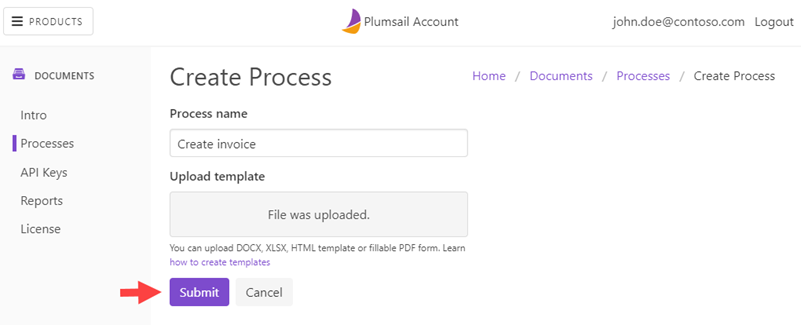
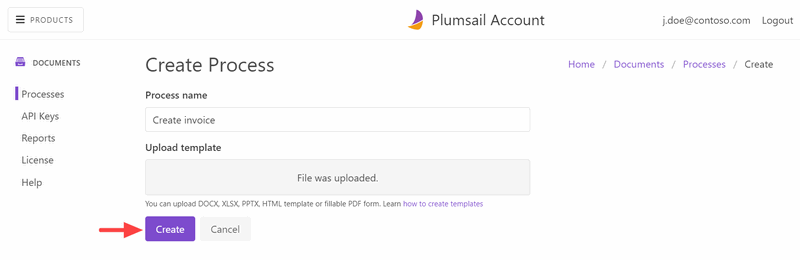
online editor updates

diff --git a/source/user-guide/processes/create-process.rst b/source/user-guide/processes/create-process.rst
@@ -1,12 +1,14 @@
 Create a new process
 ====================
 
-Once you `created a document template <create-template.html>`_ you can create a new process. Navigate to `Processes <https://account.plumsail.com/documents/processes>`_ section of your account and click "Add process":
+Once you `created a document template <create-template.html>`_ you can create a new process. Navigate to `Processes <https://account.plumsail.com/documents/processes>`_ section of your account and click *Add process*:
 
 .. image:: ../../_static/img/user-guide/processes/create-process-view.png
     :alt: Create process button
 
-Fill in the process name and upload your template. In this article, we will use `the DOCX template for invoice <../../_static/files/user-guide/processes/invoice-template.docx>`_. Then click the "Submit" button:
+Fill in the process name and upload your template. Here we use `the DOCX template for invoice <../../_static/files/user-guide/processes/invoice-template.docx>`_. 
+
+Then click the *Create* button:
 
 .. image:: ../../_static/img/user-guide/processes/create-process-form.png
     :alt: Create process form
@@ -14,17 +16,51 @@ Fill in the process name and upload your template. In this article, we will use 
 Configure template
 ------------------
 
-When the process is created you will see the first step of your process. It is called "Configure template":
+Once you created the process, its first step *Configure template* will appear on the screen. It has two substeps - *Editor* and *Settings*. 
+
+We will take a closer look at them.
+
+Editor substep
+~~~~~~~~~~~~~~
+On this substep first, you see the preview of the document template.
 
 .. image:: ../../_static/img/user-guide/processes/configure-template-step.png
     :alt: Configure template step
 
+As you can see, it’s possible to upload a new file as a template from here. 
+And download the template if you need it, say, for offline editing or storing. 
 
-The step has a few settings:
+The editor enables you to make changes to the document template online – right in your Plumsail account. 
+
+For that, click on the *Edit online*, and you will proceed to the editing mode.
+Now it’s possible to make any necessary changes to the document template. 
+
+.. image:: ../../_static/img/user-guide/processes/online-editor-mode.png
+    :alt: Online editor mode on
+
+The online editor provides a full-screen mode for more convenience in working with the template. 
+Enter and exit it by simply clicking on the button. 
+
+.. image:: ../../_static/img/user-guide/processes/full-screen-buttons.png
+    :alt: Full screen and Exit full screen buttons
+
+Once you’ve done with editing; you can exit the online editor by clicking on *Exit editor*. 
+You will return to the preview of the template. 
+
+.. note:: If you exit the online editor, you confirm the changes. After exiting you won’t be able to undo changes, only to make new ones.
+
+Online editor for Word, Excel, and PowerPoint templates is supported by Google Docs. 
+For editing HTML templates, it uses CodeMirror with HTML Mixed mode. For more information, you can visit the `Online editor reference page <./online-editor.html>`_. 
+
+Settings substep
+~~~~~~~~~~~~~~~~
+
+.. image:: ../../_static/img/user-guide/processes/settings-of-template.png
+    :alt: Settings of template substep
+
+Here you customize the following settings:
 
 - :ref:`Mode <process-mode>`
-- :ref:`process-name`
-- :ref:`template`
 - :ref:`output-filename`
 - :ref:`output-type`
 - :ref:`add-watermark`
@@ -35,21 +71,7 @@ The step has a few settings:
 Mode
 ~~~~
 
-It is "Testing" by default. It means you won't be charged for executions of this process but result documents will have a Plumsail watermark. Change it to "Active" to remove the watermark.
-
-.. _process-name:
-
-Process name
-~~~~~~~~~~~~
-
-It is the name of your process.
-
-.. _template:
-
-Template file
-~~~~~~~~~~~~~
-
-It is a file of your template. If you want to change the template, upload it here. Read `this article <create-template.html>`_ for more information about creating a template. You can download the current template file by clicking "Download the file".
+It is *Testing* by default. It means you won't be charged for executions of this process but result documents will have a Plumsail watermark. Change it to "Active" to remove the watermark.
 
 .. _output-filename:
 
@@ -72,7 +94,8 @@ Type of the output file. By default, it is the same as your template but you can
 Add watermark
 ~~~~~~~~~~~~~
 
-You can see this option if you selected PDF as an output type. Click on the "Add watermark" and upload a PNG image for your watermark. You will see the watermark configuration dialog:
+You can see this option if you selected PDF as an output type. Click on the *Add watermark* and upload a PNG image for your watermark. 
+You will see the watermark configuration dialog:
 
 .. image:: ../../_static/img/user-guide/processes/add-watermark-dialog.png
     :alt: Watermark dialog
@@ -84,7 +107,8 @@ You can specify position and opacity of your watermark.
 Protect PDF
 ~~~~~~~~~~~
 
-You can see this option if you selected PDF as an output type. It allows you to protect your PDF by setting a password, disabling printing, etc. Just click on the "Protect PDF" link and specify settings you need:
+You can see this option if you selected PDF as an output type. 
+It allows you to protect your PDF by setting a password, disabling printing, etc. Just click on the *Protect PDF* link and specify settings you need:
 
 .. image:: ../../_static/img/user-guide/processes/protect-pdf-dialog.png
     :alt: Protect PDF dialog

diff --git a/source/user-guide/processes/online-editor.rst b/source/user-guide/processes/online-editor.rst
@@ -1,0 +1,55 @@
+Online editor
+=============
+
+The `Configure template step <./create-process.html>`_ includes an online editor for templates. 
+It allows you to change document templates online in your Plumsail account and check how these changes affect the result. 
+Let’s review how it works.
+
+To enter the Online editor, click on the *Edit online* button from the Editor substep. Once you’ve entered the Online editor, you’re able to change the document template. 
+
+.. image:: ../../_static/img/user-guide/processes/online-editor-mode.png
+    :alt: Online editor mode on
+
+Switch to a full-screen mode and back by simply clicking on the button.
+
+.. image:: ../../_static/img/user-guide/processes/full-screen-buttons.png
+    :alt: Full screen and Exit full screen buttons
+
+Test the document template to check how made changes will affect the resulting file. 
+
+.. image:: ../../_static/img/user-guide/processes/test-button-template.png
+    :alt: Test template button in Online editor
+
+Proceed to the instruction on `how to test templates with your data <./test-template.html>`_.
+
+Editing of Office document templates
+------------------------------------
+
+Online editor for Word, Excel, and PowerPoint templates is supported by Google Docs. 
+
+Edit Word DOCX templates:
+
+.. image:: ../../_static/img/user-guide/processes/edit-word-template.png
+    :alt: Edit Word DOCX template
+
+Edit Excel XLSX templates:
+
+.. image:: ../../_static/img/user-guide/processes/edit-excel-template.png
+    :alt: Edit Excel XLSX template  
+
+Edit PowerPoint PPTX templates:
+
+.. image:: ../../_static/img/user-guide/processes/edit-powerpoint-template.png
+    :alt: Edit PowerPoint PPTX template  
+
+.. important:: Exit the online editor means you confirm the changes. After exiting you won’t be able to undo changes, just make new ones.
+
+Editing of HTML templates
+-------------------------
+
+Online editor for HTML templates uses CodeMirror with HTML Mixed mode. You can make changes to your HTML template right in the working area. 
+
+.. image:: ../../_static/img/user-guide/processes/edit-html-template.png
+    :alt: Edit HTML html template
+
+.. hint:: Plumsail Documents processes support fillable PDF forms as templates as well. You can't edit the PDF form template inside the process, but you can create it the way you need beforehand. Check out our instruction on `how to create fillable PDFs <../../document-generation/fillable-pdf/index.html>`_.

diff --git a/source/user-guide/processes/test-template.rst b/source/user-guide/processes/test-template.rst
@@ -1,16 +1,25 @@
 Test template with your data
-================================
+=============================
 
-Once you `created a new process <create-process.html>`_ and configured a template you can test it with your data. Just click the "Test template" button in the left bottom corner of the "Configure template" step:
+You can test the document template to see an example of the resulting file from the Editor and the Settings steps. 
 
-.. image:: ../../_static/img/user-guide/processes/test-template-button.png
-    :alt: Test template button
+The first option – testing from the Editor step – will help to see how your changes affect the result.
 
-You will see the dialog where you can put your data in JSON format:
+.. image:: ../../_static/img/user-guide/processes/test-template-from-editor.png
+    :alt: Test template from editor step
+
+The second option – testing from the Settings step – will show you how the finalized document will look after you’ve customized all the settings. 
+
+.. image:: ../../_static/img/user-guide/processes/test-template-from-settings.png
+    :alt: Test template from settings step
+
+**What to do after you clicked on the Test template?**
+
+After that, you will see the dialog where you can put your data in JSON format:
 
 .. image:: ../../_static/img/user-guide/processes/template-test-dialog.png
     :alt: Test template dialog
 
-Just click "Create document" to apply this data to your template and review the resulting document.
+Just click *Create document* to apply this data to your template and review the resulting document.
 
-.. Note:: Once you tested the template you can `configure how to deliver the result document <create-delivery.html>`_ (email, OneDrive, etc). Just click the "Save & Next" button in the "Configure template" step.
+.. Note:: Once you tested the template you can `configure how to deliver the result document <create-delivery.html>`_ (email, OneDrive, etc). Just click the *Save & Next* button in the *Configure template* step.

diff --git a/source/user-guide/processes/index.rst b/source/user-guide/processes/index.rst
@@ -17,6 +17,7 @@ Processes are an easy way to automate the creation of documents from templates. 
   create-delivery
   start-process
   runs-history
+  online-editor
 
 Processes examples
 ------------------
